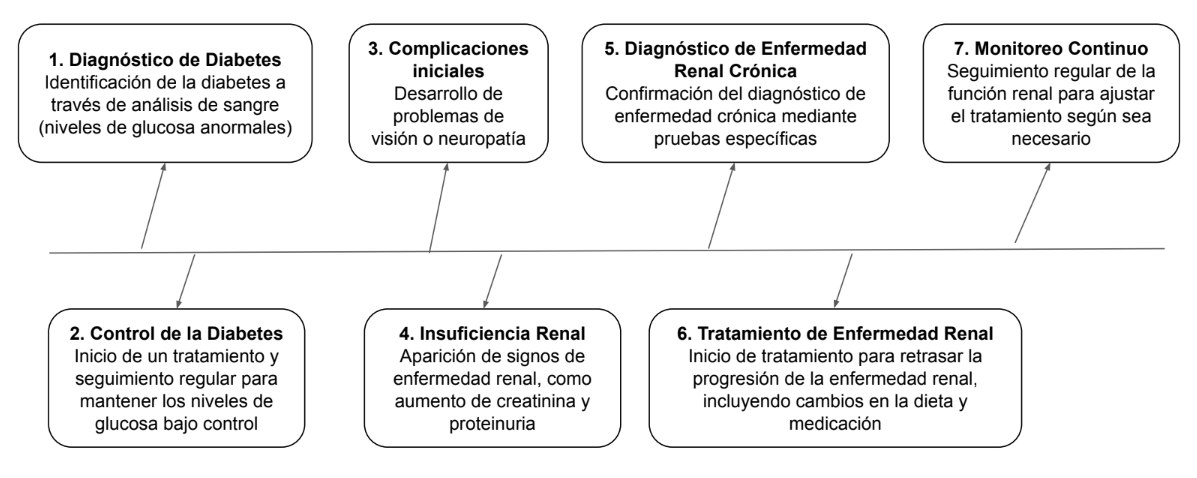
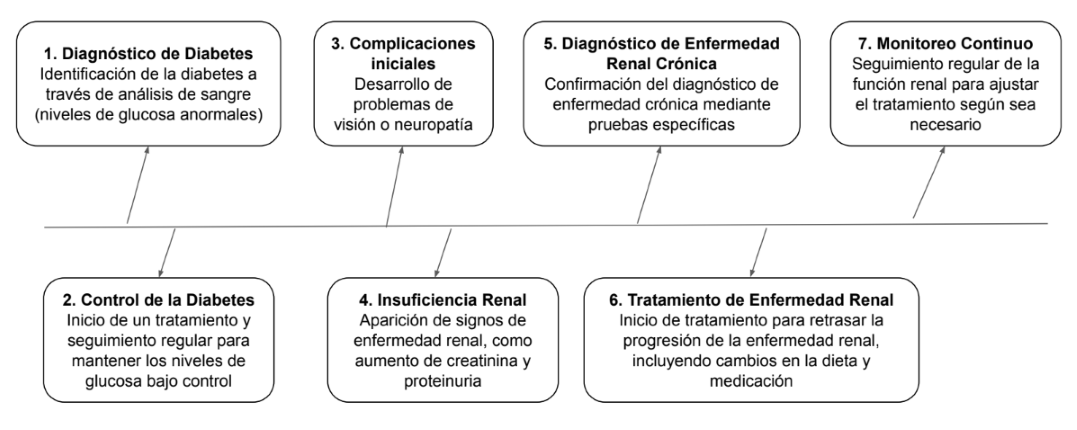
Se añadio pagina  "enfermedades"
Se añadio pagina  "enfermedades"

diff --git a/Prevesitio/PaginaWeb/Templates/enfermedades.html b/Prevesitio/PaginaWeb/Templates/enfermedades.html
@@ -19,12 +19,7 @@
     <div class="container-e__information">
       <div class="container-e__content" style="text-align: justify; flex: 2; background-color: #ffffff; padding: 30px; border-radius: 8px; box-shadow: 0 4px 8px rgba(0, 0, 0, 0.1); border: 3px solid #000000;">
         ¿Qué tiene que ver la diabetes con los riñones?
-        Los riñones son como filtros que eliminan desechos de la sangre. Sin embargo, cuando hay demasiado azúcar en la sangre por
-        largos períodos (como ocurre en la diabetes), esos filtros se dañan. Esto lleva a una condición llamada enfermedad renal
-        crónica (ERC), que significa que los riñones pierden su capacidad de funcionar correctamente.
-        Muchas personas con diabetes tipo 2 desarrollan problemas renales porque no logran mantener un buen control de su
-        azúcar en la sangre. De hecho, la diabetes es la principal causa de daño renal en las etapas más avanzadas, donde algunos
-        pacientes incluso necesitan diálisis, una especie de “riñón artificial” o un trasplante de riñón para sobrevivir.
+        La diabetes afecta a los riñones al dañar sus filtros, que eliminan desechos de la sangre, cuando los niveles de azúcar permanecen elevados durante mucho tiempo. Esto puede llevar a la enfermedad renal crónica (ERC), donde los riñones pierden su función. La diabetes tipo 2, especialmente cuando no se controla bien, es la principal causa de daño renal, lo que puede requerir diálisis o un trasplante de riñón en etapas avanzadas.
       </div>
     </div>
   </div>
@@ -38,19 +33,19 @@
       enfermedad renal
       </button>
       <button class="container-e__tabs-btn" onclick="openTab(event, 'tab2')">
-        Dieta
+      Manifestaciones clínica
       </button>
       <button class="container-e__tabs-btn" onclick="openTab(event, 'tab3')">
-        Ejercicio
+        Factores de riesgo
       </button>
       <button class="container-e__tabs-btn" onclick="openTab(event, 'tab4')">
-        Estrés
+        Complicaciones de la diabetes
       </button>
       <button class="container-e__tabs-btn" onclick="openTab(event, 'tab5')">
-        Salud
+        Diagnóstico de Diabetes
       </button>
       <button class="container-e__tabs-btn" onclick="openTab(event, 'tab6')">
-        Evitar
+        Medidas Preventivas
       </button>
     </div>
     <div id="tab1" class="container-e__tab-content active" style="border: 3px solid #000000;">
@@ -61,69 +56,211 @@
         <img src="{% static 'fotos/esquema2.png' %}" />
       </div>
     </div>
-    <div id="tab2" class="container-e__tab-content">
+    <div id="tab2" class="container-e__tab-content" style="border: 3px solid #000000;">
       <div class="container-e__tab-details">
         <div class="container-e__tab-details__content">
-          <h2>Aliméntate de forma equilibrada</h2>
-          <p>
-            Consume una dieta rica en frutas, verduras, granos integrales y
-            proteínas magras. Limita los azúcares añadidos y las grasas
-            saturadas.
-          </p>
+          <p>Los pacientes suelen ser asintomáticos en las primeras etapas; algunos pueden referir orina espumosa. En las etapas posteriores, pueden estar presentes características clínicas de enfermedad renal crónica (p. ej., hipertensión, sobrecarga de volumen), además de:</p>
+            <ul>
+                <li>Presión arterial alta que es difícil de controlar</li>
+                <li>Hinchazón de pies, tobillos, manos u ojos</li>
+                <li>Orina espumosa</li>
+                <li>Confusión o dificultad para pensar</li>
+                <li>Falta de aire</li>
+                <li>Pérdida del apetito</li>
+                <li>Náuseas y vómitos</li>
+                <li>Picazón</li>
+                <li>Cansancio y debilidad</li>
+            </ul>
         </div>
-        <img src="{% static 'fotos/healthe__002.webp' %}" />
+        <img src="{% static 'fotos/01.png' %}" />
       </div>
     </div>
-    <div id="tab3" class="container-e__tab-content">
+    <div id="tab3" class="container-e__tab-content" style="border: 3px solid #000000;">
       <div class="container-e__tab-details">
         <div class="container-e__tab-details__content">
-          <h2>Realiza actividad física</h2>
-          <p>
-            Intenta hacer al menos 150 minutos de ejercicio moderado a la
-            semana, como caminar, nadar o andar en bicicleta. Esto ayuda a
-            controlar el peso y mejorar la sensibilidad a la insulina.
-          </p>
+          <p>Los factores de riesgo para la nefropatía diabética incluyen aspectos genéticos, metabólicos y ambientales:</p>
+            <ul>
+                <li><strong>Edad:</strong> Más frecuente entre 50 y 70 años, con mayor riesgo a mayor edad.</li>
+                <li><strong>Etnia:</strong> Afroamericanos e hispanos tienen mayor predisposición.</li>
+                <li><strong>Sexo:</strong> Las mujeres diabéticas son más susceptibles por factores hormonales y genéticos.</li>
+                <li><strong>Hipertensión y hiperglucemia:</strong> Daños en vasos sanguíneos y mal control de glucosa aceleran el daño renal.</li>
+                <li><strong>Tabaco y obesidad:</strong> Aumentan el riesgo por inflamación, estrés oxidativo y desórdenes metabólicos.</li>
+                <li><strong>Factores genéticos y nivel socioeconómico:</strong> Herencia y acceso limitado a cuidados agravan el riesgo.</li>
+            </ul>
+            <ol>
+                <li><strong>Etapa 1:</strong> Los riñones trabajan más sin daño evidente, con mínimas proteínas en la orina.</li>
+                <li><strong>Etapa 2:</strong> Daño leve en los riñones tras 2-5 años, con presencia constante de proteína en la orina.</li>
+                <li><strong>Etapa 3:</strong> Daño progresivo tras 5-7 años, mayor proteína en la orina, disminución de función renal y presión arterial alta.</li>
+                <li><strong>Etapa 4:</strong> Daño severo, insuficiencia renal avanzada, alta proteína en orina y posible necesidad de diálisis o trasplante.</li>
+            </ol>
         </div>
-        <img src="{% static 'fotos/healthe__003.webp' %}" />
+        <img src="{% static 'fotos/02.png' %}" />
       </div>
     </div>
-    <div id="tab4" class="container-e__tab-content">
+    <div id="tab4" class="container-e__tab-content" style="border: 3px solid #000000;">
       <div class="container-e__tab-details">
         <div class="container-e__tab-details__content">
-          <h2>Controla el estrés</h2>
-          <p>
-            El estrés crónico puede afectar tus niveles de glucosa. Practica
-            técnicas de relajación como la meditación, el yoga o la respiración
-            profunda.
-          </p>
+          <div>
+              <h4><strong>Infarto Agudo al Miocardio</strong></h4>
+              <p>La diabetes aumenta el riesgo de infartos al corazón debido a la obstrucción de arterias, dañando el músculo cardíaco.</p>
+              <h5>Factores de riesgo</h5>
+              <ul>
+                  <li>Fumar</li>
+                  <li>Sobrepeso</li>
+                  <li>Presión alta</li>
+                  <li>Colesterol elevado</li>
+                  <li>Mala higiene bucal</li>
+              </ul>
+              <h5><strong>Prevención</strong></h5>
+              <ul>
+                  <li>Dejar de fumar</li>
+                  <li>Mantener un peso saludable</li>
+                  <li>Dieta balanceada</li>
+                  <li>Ejercicio regular</li>
+                  <li>Controlar la diabetes</li>
+              </ul>
+          </div>
+      
+          <div>
+              <h4><strong>Lesión Renal Aguda (LRA)</strong></h4>
+              <p>Es una pérdida súbita de la función renal, más común en personas con diabetes y enfermedades cardiovasculares o renales.</p>
+              <h5>Factores de riesgo</h5>
+              <ul>
+                  <li>Presión alta</li>
+                  <li>Edad avanzada</li>
+                  <li>Ciertos medicamentos</li>
+              </ul>
+              <h5>Prevención</h5>
+              <ul>
+                  <li>Hidratación</li>
+                  <li>Control de diabetes e hipertensión</li>
+                  <li>Evitar medicamentos dañinos para los riñones</li>
+              </ul>
+          </div>
+      
+          <div>
+              <h4><strong>Infecciones de Vías Urinarias</strong></h4>
+              <p>Mayor riesgo en diabéticos, afectando vías bajas (dolor al orinar, sangre en la orina) y altas (dolor lumbar, fiebre).</p>
+              <h5>Prevención</h5>
+              <ul>
+                  <li>Controlar la glicemia</li>
+                  <li>Mantener buena higiene íntima</li>
+              </ul>
+          </div>
+      
+          <div>
+              <h4><strong>Retinopatía Diabética</strong></h4>
+              <p>Complicación ocular causada por altos niveles de glucosa, que puede llevar a ceguera.</p>
+              <h5>Prevención</h5>
+              <ul>
+                  <li>Control riguroso de la diabetes</li>
+              </ul>
+          </div>
+      
+          <div>
+              <h4><strong>Neuropatía Diabética</strong></h4>
+              <p>Daño a los nervios por niveles altos de glucosa, causando pérdida de sensibilidad y funcionalidad.</p>
+              <h5>Consecuencias</h5>
+              <ul>
+                  <li>Complicaciones graves como pie diabético</li>
+              </ul>
+          </div>
+      
+          <div>
+              <h4>Acidosis Metabólica Tipo IV</strong></h4>
+              <p>Ocurre en personas con diabetes y enfermedad renal crónica. Se caracteriza por acumulación de ácido y potasio en el cuerpo.</p>
+              <h5>Factores de riesgo</h5>
+              <ul>
+                  <li>ERC avanzada</li>
+                  <li>Hipoaldosteronismo</li>
+                  <li>Ciertos medicamentos</li>
+              </ul>
+              <h4>Prevención</h4>
+              <ul>
+                  <li>Control de glucosa</li>
+                  <li>Hidratación</li>
+                  <li>Monitoreo renal</li>
+                  <li>Manejo adecuado de hipertensión</li>
+              </ul>
+          </div>
         </div>
-        <img src="{% static 'fotos/healthe__004.webp' %}" />
       </div>
     </div>
-    <div id="tab5" class="container-e__tab-content">
+    <div id="tab5" class="container-e__tab-content" style="border: 3px solid #000000;">
       <div class="container-e__tab-details">
         <div class="container-e__tab-details__content">
-          <h2>Monitorea tu salud</h2>
-          <p>
-            Hazte chequeos regulares para revisar tus niveles de azúcar en
-            sangre y otros indicadores de salud. Detectar problemas a tiempo es
-            clave.
-          </p>
+          <h4><strong>Diagnóstico y Manejo del Daño Renal</strong></h4>
+
+              <h5><strong>Diagnóstico</strong></h5>
+              <ul>
+                  <li>Proteína en la orina (albúmina) durante al menos 3 meses, lo cual indica daño en los riñones.</li>
+                  <li>Reducción de la función renal (medida como Tasa de Filtración Glomerular o TFG).</li>
+              </ul>
+              <p>Es importante asegurarse de que no haya otras causas del daño renal, como hipertensión o enfermedades específicas de los riñones.</p>
+
+              <h5><strong>Cuándo ver a un especialista en riñones (nefrólogo)</strong></h5>
+              <p>Se necesita evaluación adicional por un nefrólogo si ocurre alguna de estas situaciones:</p>
+              <ul>
+                  <li>El diagnóstico no está claro.</li>
+                  <li>Hay señales de inflamación o daño activo en el análisis de orina.</li>
+                  <li>La cantidad de albúmina en la orina aumenta rápidamente.</li>
+                  <li>Aparece síndrome nefrótico (hinchazón en el cuerpo debido a pérdida masiva de proteínas en la orina).</li>
+                  <li>La función renal disminuye rápidamente o es muy baja (&lt; 30 mL/min).</li>
+                  <li>Es necesario considerar diálisis o trasplante renal.</li>
+                  <li>En personas con diabetes tipo 1, si no hay signos de daño en los ojos (retinopatía diabética), podría ser otra causa del daño renal.</li>
+              </ul>
+
+              <h5><strong>Qué sigue</strong></h5>
+              <p>El tratamiento incluye:</p>
+              <ul>
+                  <li>Manejar la diabetes y prevenir el daño renal con medicamentos.</li>
+                  <li>Controlar la presión arterial y los niveles de azúcar en sangre.</li>
+                  <li>Realizar visitas regulares al médico.</li>
+              </ul>
+              <p>Consultar a un especialista temprano puede ayudar a prevenir complicaciones graves.</p>
         </div>
         <img src="{% static 'fotos/healthe__005.webp' %}" />
       </div>
     </div>
-    <div id="tab6" class="container-e__tab-content">
+    <div id="tab6" class="container-e__tab-content" style="border: 3px solid #000000;">
       <div class="container-e__tab-details">
         <div class="container-e__tab-details__content">
-          <h2>Evita el tabaco y limita el alcohol</h2>
-          <p>
-            Fumar y el consumo excesivo de alcohol aumentan el riesgo de
-            diabetes. Si fumas, busca ayuda para dejarlo y modera tu consumo de
-            bebidas alcohólicas.
-          </p>
+          <div style="flex: 1; padding-right: 20px;">
+            <h1>Medidas Preventivas para la Enfermedad Renal Diabética</h1>
+            <ol>
+                <li>
+                    <strong>Exámenes regulares:</strong>
+                    <ul>
+                        <li>Realiza al menos una vez al año pruebas para evaluar:
+                            <ul>
+                                <li>Albúmina en la orina (indicador temprano de daño renal).</li>
+                                <li>Función renal (TFGe).</li>
+                            </ul>
+                        </li>
+                    </ul>
+                </li>
+                <li>
+                    <strong>Control de diabetes y presión arterial:</strong>
+                    <ul>
+                        <li>Mantén una hemoglobina A1C por debajo del 7%.</li>
+                        <li>Mantén la presión arterial bajo control, con un objetivo menor a 130/80 mmHg.</li>
+                    </ul>
+                </li>
+                <li>
+                    <strong>Evitar factores perjudiciales:</strong>
+                    <ul>
+                        <li>Evita medicamentos nefrotóxicos, salvo los recetados para proteger los riñones (como los IECA o ARAs).</li>
+                    </ul>
+                </li>
+                <li>
+                    <strong>Monitoreo en enfermedad renal crónica:</strong>
+                    <ul>
+                        <li>Si ya hay enfermedad renal, controla albúmina urinaria y TFGe entre 1 y 4 veces al año, según el grado de afectación.</li>
+                    </ul>
+                </li>
+            </ol>
+            <p>Estas medidas ayudan a prevenir o retrasar el daño renal y son clave para un manejo integral de la diabetes.</p>
         </div>
-        <img src="{% static 'fotos/healthe__006.webp' %}" />
       </div>
     </div>
   </div>

diff --git a/Prevesitio/PaginaWeb/static/style.css b/Prevesitio/PaginaWeb/static/style.css
@@ -495,3 +495,9 @@ input[type="number"] {
 }
 
 /* FIN PAGINA IMC */
+
+/* PAGINA enfermedades */
+
+.txtenf {
+  display: flex;
+}
